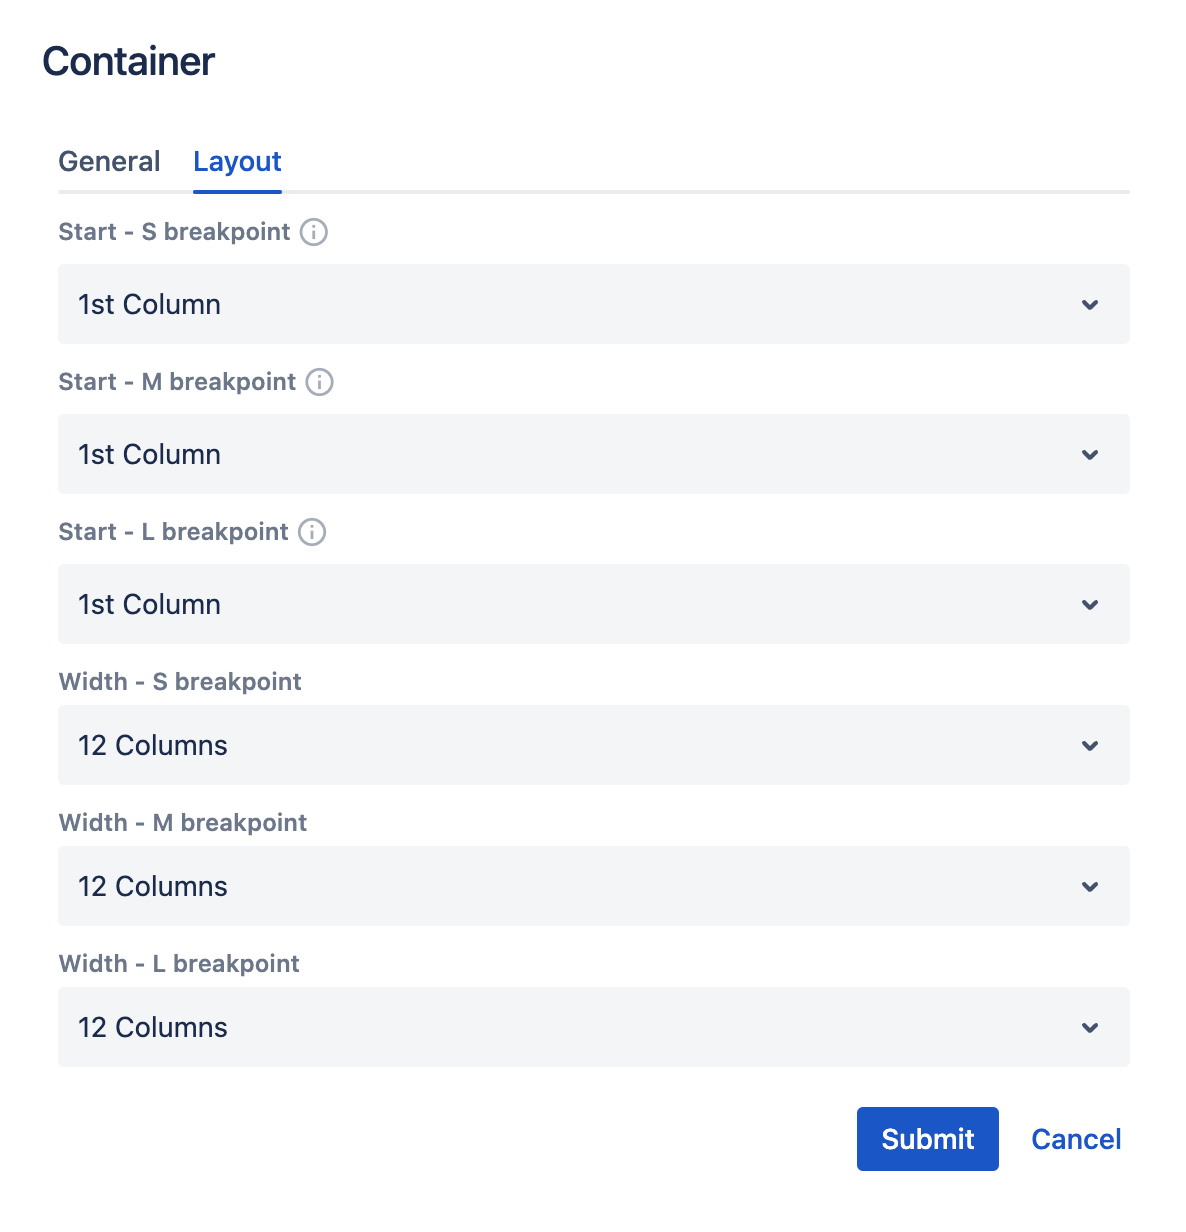
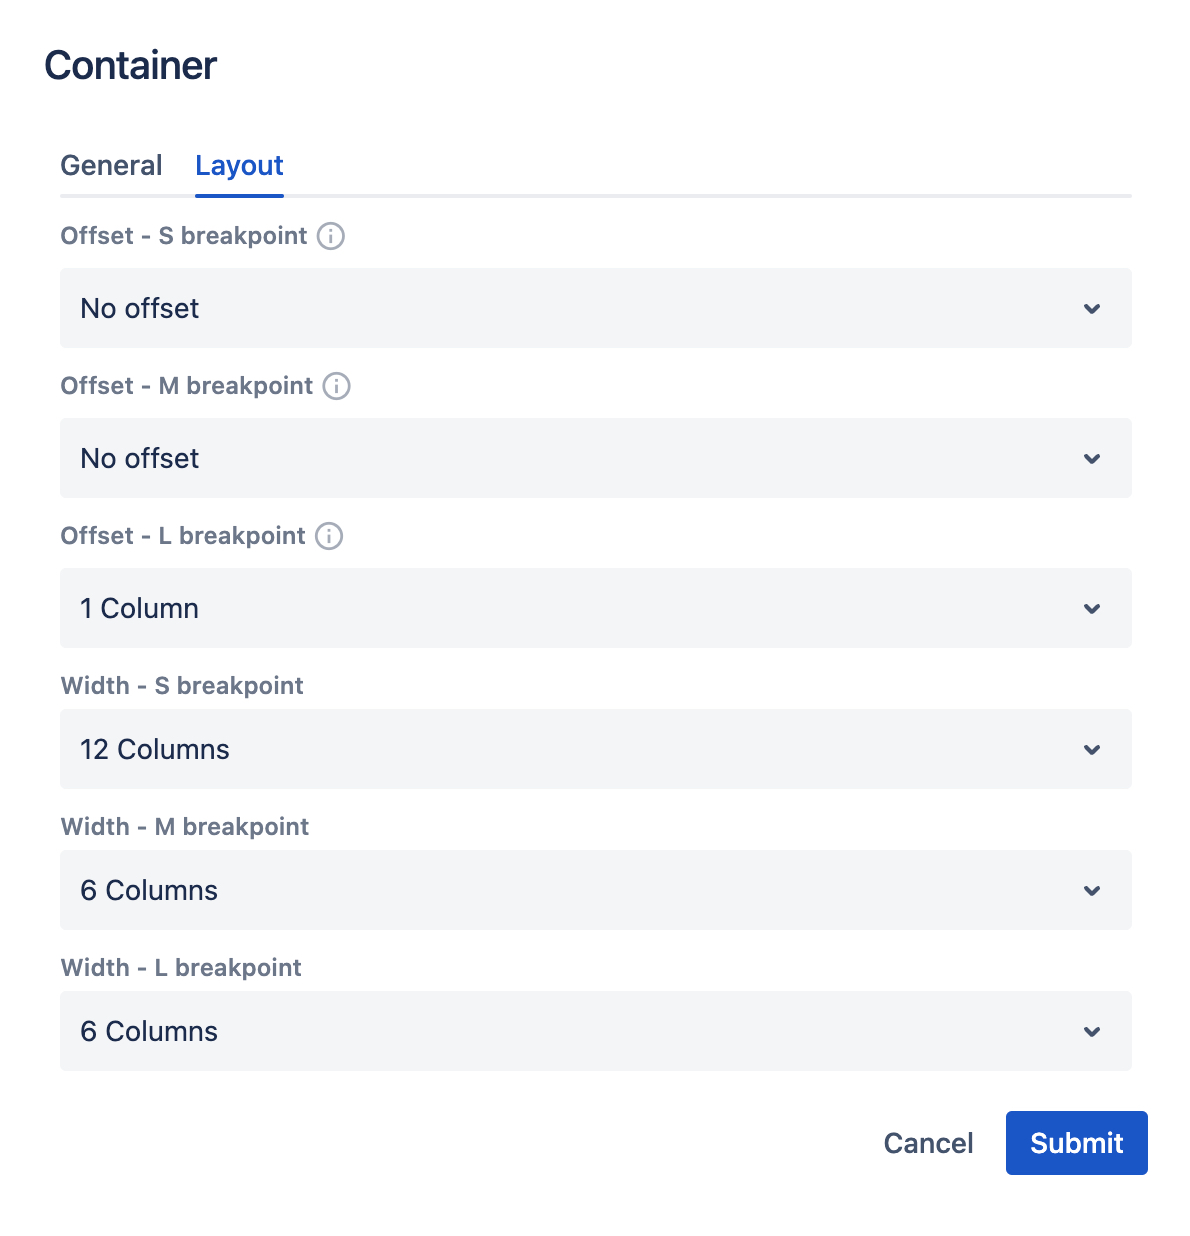
update offset description

diff --git a/docs/guides/authoring/howlite/grid/index.md b/docs/guides/authoring/howlite/grid/index.md
@@ -10,7 +10,7 @@ In order to resize an [Image](../image) or [Container](../container) click <img 
 
 For each breakpoint separately, you can control:
 
-  - the **Start** property: for example, if you set it to "2 Column" on L breakpoint, the component will start from the second column on the desktop.
+  - the **Offset** property: for example, if you set it to "1 Column" on L breakpoint, the component will be moved 1 column to the right side.
   - the **Width** property: for example, if you set it to "6 Columns" on L breakpoint, the component will be 6 columns wide on the desktop.
 
 The above settings will result in the following container size and position:
